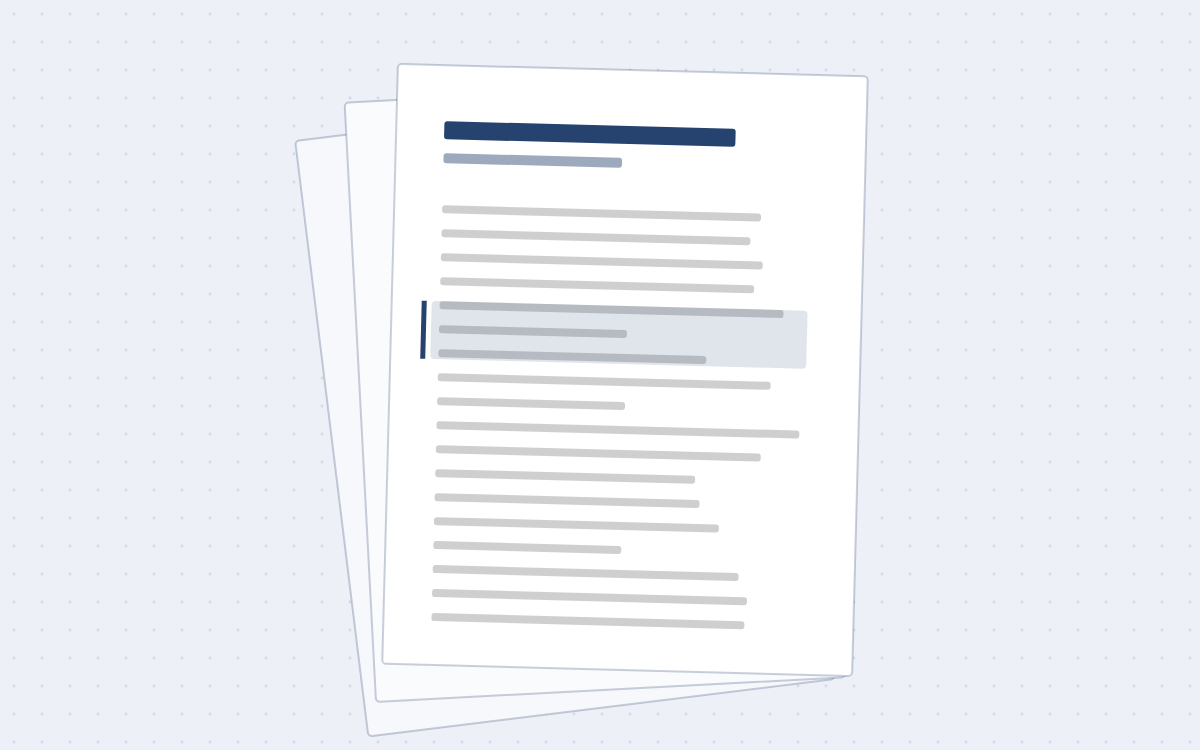
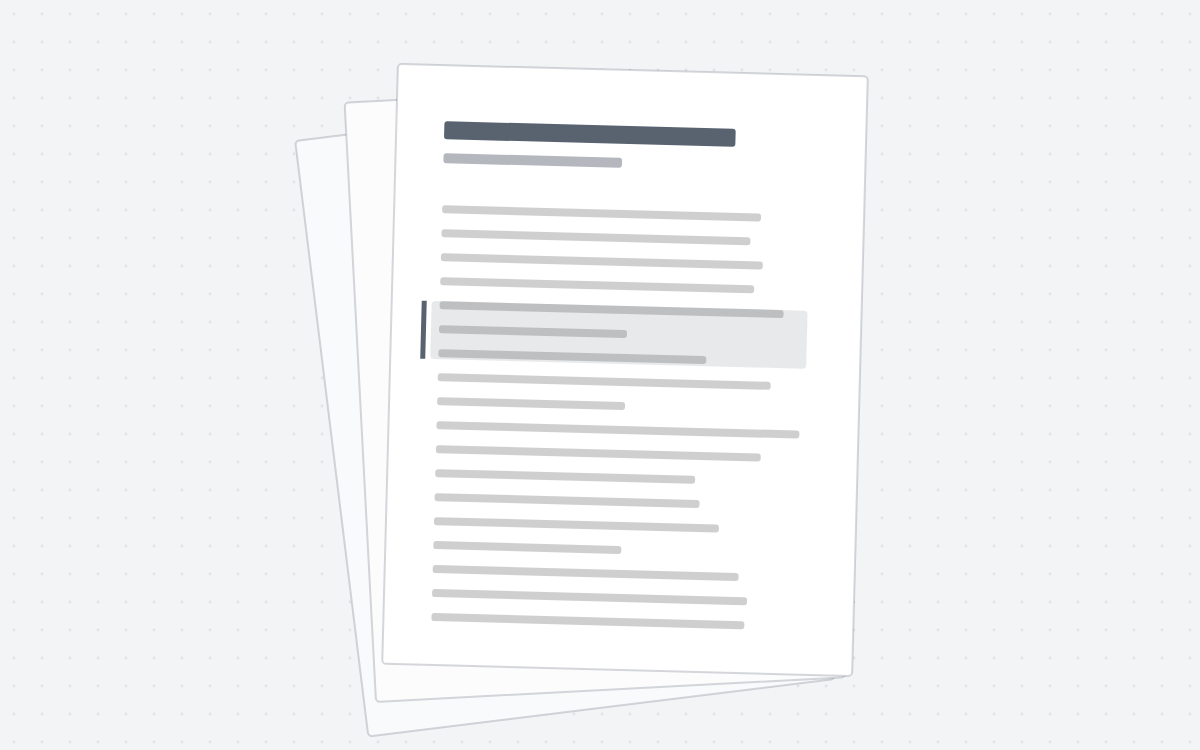
change colors

Changed region(s): [[0.37, 0.1533, 0.6167, 0.2147], [0.3392, 0.3987, 0.37, 0.46]]

diff --git a/apps/web/components/layout/site-footer.tsx b/apps/web/components/layout/site-footer.tsx
@@ -14,19 +14,19 @@ export async function SiteFooter() {
     featured && g.heading === "Conferences & Events" ? { ...g, links: [{ label: featured.shortTitle ?? featured.title, href: `/conferences/${featured.slug}` }, ...g.links] } : g,
   );
   return (
-    <footer className="border-t border-rule bg-paper">
+    <footer className="bg-brand-darkest text-white/80">
       <div className="container-site py-14 md:py-16">
         <div className="grid gap-12 lg:grid-cols-12 lg:gap-10">
           <div className="lg:col-span-3">
-            <Logo className="h-14" />
-            <p className="mt-5 max-w-sm text-[0.9375rem] leading-relaxed text-muted-ink">{siteConfig.description}</p>
-            <SocialLinks className="mt-5 -ml-2.5" />
+            <Logo tone="white" className="h-14" />
+            <p className="mt-5 max-w-sm text-[0.9375rem] leading-relaxed text-white/75">{siteConfig.description}</p>
+            <SocialLinks inverse className="mt-5 -ml-2.5" />
           </div>
 
           <div className="grid grid-cols-2 gap-x-6 gap-y-10 sm:grid-cols-4 lg:col-span-6 lg:grid-cols-2 xl:grid-cols-4">
             {nav.map((group) => (
               <nav key={group.heading} aria-labelledby={`footer-${group.heading}`}>
-                <h2 id={`footer-${group.heading}`} className="text-sm font-semibold text-brand">
+                <h2 id={`footer-${group.heading}`} className="font-headline text-[0.9375rem] font-semibold tracking-[0.06em] text-white uppercase">
                   {group.heading}
                 </h2>
                 <ul className="mt-3">
@@ -34,7 +34,7 @@ export async function SiteFooter() {
                     <li key={l.label}>
                       <Link
                         href={l.href}
-                        className="inline-flex min-h-11 items-center rounded-sm text-[0.9375rem] md:min-h-9 text-muted-ink hover:text-ink hover:underline hover:decoration-ink/30 hover:underline-offset-4"
+                        className="inline-flex min-h-11 items-center rounded-sm text-[0.9375rem] md:min-h-9 text-white/75 hover:text-white hover:underline hover:decoration-white/40 hover:underline-offset-4"
                       >
                         {l.label}
                       </Link>
@@ -46,10 +46,10 @@ export async function SiteFooter() {
           </div>
 
           <div className="lg:col-span-3">
-            <h2 className="text-sm font-semibold text-brand">Contact</h2>
-            <address className="mt-4 space-y-3 text-[0.9375rem] text-ink/85 not-italic">
+            <h2 className="font-headline text-[0.9375rem] font-semibold tracking-[0.06em] text-white uppercase">Contact</h2>
+            <address className="mt-4 space-y-3 text-[0.9375rem] text-white/80 not-italic">
               <p className="flex gap-3">
-                <MapPin className="mt-1 size-4 shrink-0 text-faint-ink" aria-hidden />
+                <MapPin className="mt-1 size-4 shrink-0 text-highlight" aria-hidden />
                 <span>
                   {contact.address.map((line) => (
                     <span key={line} className="block">
@@ -59,14 +59,14 @@ export async function SiteFooter() {
                 </span>
               </p>
               <p className="flex items-center gap-3">
-                <Phone className="size-4 shrink-0 text-faint-ink" aria-hidden />
-                <a href={contact.phone.href} className="tap-target rounded-sm hover:text-brand hover:underline hover:underline-offset-4">
+                <Phone className="size-4 shrink-0 text-highlight" aria-hidden />
+                <a href={contact.phone.href} className="tap-target rounded-sm hover:text-white hover:underline hover:underline-offset-4">
                   {contact.phone.display}
                 </a>
               </p>
               <p className="flex items-center gap-3">
-                <Mail className="size-4 shrink-0 text-faint-ink" aria-hidden />
-                <a href={`mailto:${contact.email}`} className="tap-target rounded-sm hover:text-brand hover:underline hover:underline-offset-4">
+                <Mail className="size-4 shrink-0 text-highlight" aria-hidden />
+                <a href={`mailto:${contact.email}`} className="tap-target rounded-sm hover:text-white hover:underline hover:underline-offset-4">
                   {contact.email}
                 </a>
               </p>
@@ -74,14 +74,14 @@ export async function SiteFooter() {
           </div>
         </div>
 
-        <div className="mt-14 flex flex-col gap-4 border-t border-rule pt-6 text-sm text-faint-ink md:flex-row md:items-center md:justify-between">
+        <div className="mt-14 flex flex-col gap-4 border-t border-white/15 pt-6 text-sm text-white/60 md:flex-row md:items-center md:justify-between">
           <p>
             © <CopyrightYear /> {siteConfig.shortName}. All rights reserved.
           </p>
           <ul className="flex flex-wrap gap-x-6 gap-y-2">
             {legalNav.map((l) => (
               <li key={l.href}>
-                <Link href={l.href} className="tap-target rounded-sm hover:text-ink">
+                <Link href={l.href} className="tap-target rounded-sm hover:text-white">
                   {l.label}
                 </Link>
               </li>

diff --git a/apps/web/app/globals.css b/apps/web/app/globals.css
@@ -7,31 +7,34 @@
  * Change the site's colours HERE: every page, button, link and band reads
  * these variables (and Tailwind classes such as bg-brand map onto them).
  *
- * Palette: Midnight Navy + Amber.
+ * Palette: Slate + Orange.
  *   --brand        main colour: buttons, links, focus, headings on the home page
  *   --brand-strong hover / pressed
+ *   --brand-mid / --brand-light  lighter slate steps (home-page cards and tiles)
  *   --brand-deep   dark bands (newsletter, "Built for your research")
- *   --brand-darkest deepest shade, hero gradient and footer
+ *   --brand-darkest deepest shade: hero gradient and footer
  *   --brand-wash / --brand-tint  light backgrounds and borders
- *   --highlight    accent for call-to-action buttons; --on-highlight is its text
- *   --sand         warm light band behind the numbers on the home page
+ *   --highlight    orange accent for call-to-action buttons; --on-highlight is its text
+ *   --sand         light band behind the numbers on the home page
  * Shadcn/ui semantic tokens are mapped onto the same palette below.
  */
 :root {
-  /* Brand: Midnight Navy (#1b3a6b) with deeper and lighter steps */
-  --brand: #1b3a6b;
-  --brand-strong: #152f57; /* hover / pressed */
-  --brand-deep: #11264a; /* dark bands, pressed states */
-  --brand-darkest: #0a1730; /* hero gradient, footer */
-  --brand-wash: #eef2f8; /* tinted backgrounds, selected states */
-  --brand-tint: #d3dcea; /* borders on tinted surfaces */
-  --highlight: #f2b134; /* amber accent: call-to-action buttons, small marks on dark bands */
-  --on-highlight: #3b2704; /* text on the amber accent (9:1) */
-  --sand: #f4efe6; /* warm band behind the home-page numbers */
-  --chart-1: #2c538f; /* chart series 1 */
+  /* Brand: Slate (#33404f) with deeper and lighter steps */
+  --brand: #33404f;
+  --brand-strong: #2b3643; /* hover / pressed */
+  --brand-mid: #4a5a6c; /* second card shade */
+  --brand-light: #5f7185; /* third card shade */
+  --brand-deep: #1f2933; /* dark bands, pressed states */
+  --brand-darkest: #12181e; /* hero gradient, footer */
+  --brand-wash: #eff0f1; /* tinted backgrounds, selected states */
+  --brand-tint: #d2d5d8; /* borders on tinted surfaces */
+  --highlight: #ff8a3d; /* orange accent: call-to-action buttons, small marks on dark bands */
+  --on-highlight: #3b1700; /* text on the orange accent (7.5:1) */
+  --sand: #f1efec; /* light band behind the home-page numbers */
+  --chart-1: #4a5a6c; /* chart series 1 */
   --chart-2: #d08a3a; /* chart series 2; below 3:1 on white, so charts carry labels or a table */
 
-  /* Neutrals: warm greys that sit comfortably beside maroon */
+  /* Neutrals: greys for text, borders and secondary sections */
   --ink: #202124; /* dark charcoal text */
   --ink-soft: #3c4043;
   --paper: #f7f6f5; /* secondary sections */
@@ -80,6 +83,8 @@
   --color-brand-wash: var(--brand-wash);
   --color-brand-tint: var(--brand-tint);
   --color-brand-darkest: var(--brand-darkest);
+  --color-brand-mid: var(--brand-mid);
+  --color-brand-light: var(--brand-light);
   --color-highlight: var(--highlight);
   --color-on-highlight: var(--on-highlight);
   --color-sand: var(--sand);

diff --git a/apps/web/lib/site.ts b/apps/web/lib/site.ts
@@ -10,9 +10,9 @@ export const siteConfig = {
   description:
     "RiTECHS connects researchers, scholars and innovators through publications, international conferences, mentorship and research training.",
   logo: {
-    /** Burgundy recolour of the supplied white logo, for light backgrounds. */
-    onLight: "/brand/ritechs-logo.png",
-    /** Original supplied logo (white on transparent), for burgundy backgrounds. */
+    /** Slate (brand colour) recolour of the supplied white logo, for light backgrounds. */
+    onLight: "/brand/ritechs-logo-slate.png",
+    /** Original supplied logo (white on transparent), for dark backgrounds. */
     onDark: "/brand/ritechs-logo-white.png",
     width: 302,
     height: 130,

diff --git a/apps/web/components/layout/newsletter-form.tsx b/apps/web/components/layout/newsletter-form.tsx
@@ -79,7 +79,7 @@ export function NewsletterForm() {
           aria-describedby={`${id}-hint ${id}-error`}
           className="h-12 w-full min-w-0 rounded-md sm:flex-1 border border-white/25 bg-white/[0.08] px-4 text-base text-white outline-none placeholder:text-white/50 focus-visible:border-white focus-visible:ring-2 focus-visible:ring-white/25 aria-invalid:border-[#ffb4c0]"
         />
-        <Button type="submit" variant="inverse" size="lg" disabled={pending} className="h-12">
+        <Button type="submit" variant="highlight" size="lg" disabled={pending} className="h-12">
           {pending && <Spinner />}
           {pending ? "Subscribing…" : "Subscribe"}
         </Button>

diff --git a/apps/web/components/home/trending.tsx b/apps/web/components/home/trending.tsx
@@ -38,7 +38,7 @@ export async function Trending() {
             <Reveal as="li" key={c.href} index={i}>
               <Link
                 href={c.href}
-                className="group flex h-full flex-col bg-brand text-white shadow-[0_10px_24px_-12px_rgb(0_0_0/0.45)] transition-transform duration-300 hover:-translate-y-1"
+                className={`group flex h-full flex-col text-white shadow-[0_10px_24px_-12px_rgb(0_0_0/0.45)] transition-transform duration-300 hover:-translate-y-1 ${["bg-brand", "bg-brand-mid", "bg-brand-light"][i % 3]}`}
               >
                 <span className="relative block aspect-[4/3] overflow-hidden">
                   <Image

diff --git a/apps/web/components/home/events-section.tsx b/apps/web/components/home/events-section.tsx
@@ -112,7 +112,7 @@ export async function EventsSection() {
 
 /** Seminars, boot camps and other programmes as tall tiles, like the video row on usf.edu. */
 export function ProgrammeTiles() {
-  const shades = ["bg-brand", "bg-ink", "bg-brand-strong", "bg-brand-deep"];
+  const shades = ["bg-brand", "bg-brand-deep", "bg-brand-mid", "bg-brand-darkest"];
   return (
     <section aria-labelledby="programmes-heading" className="relative overflow-hidden bg-paper py-16 md:py-20 lg:py-24">
       <div aria-hidden className="absolute -top-24 -left-40 size-[34rem] rounded-full border-[4rem] border-brand/[0.05]" />

diff --git a/apps/web/components/brand/logo.tsx b/apps/web/components/brand/logo.tsx
@@ -5,8 +5,8 @@ import { cn } from "@/lib/utils";
 
 /**
  * The supplied RiTECHS logo. The original white artwork is used on
- * burgundy surfaces; a burgundy recolour of the same artwork (identical
- * shapes and proportions) is used on light surfaces.
+ * dark surfaces; a recolour of the same artwork in the brand colour
+ * (identical shapes and proportions) is used on light surfaces.
  */
 export function Logo({
   tone = "brand",

diff --git a/apps/web/app/layout.tsx b/apps/web/app/layout.tsx
@@ -84,7 +84,7 @@ export const metadata: Metadata = {
 };
 
 export const viewport: Viewport = {
-  themeColor: "#0e2240",
+  themeColor: "#1f2933",
 };
 
 export default function RootLayout({ children }: LayoutProps<"/">) {

diff --git a/DESIGN.md b/DESIGN.md
@@ -4,15 +4,15 @@ name: RiTECHS
 description: The design system of RiTECHS (Research, Innovation, Technology & Solution), an academic research, publication and mentoring organisation. A burgundy-and-white institutional identity built around the supplied RiTECHS logo — deep burgundy for action and emphasis, charcoal text on white, a warm off-white for secondary sections — set in an editorial serif (Newsreader) for headings, titles and abstracts and IBM Plex Sans for interface text. Restrained borders, soft offset shadows, generous whitespace; one burgundy band per page.
 
 colors:
-  brand: "#1b3a6b"
-  brand-strong: "#152f57"
-  brand-deep: "#11264a"
-  brand-darkest: "#0a1730"
-  brand-wash: "#eef2f8"
-  brand-tint: "#d3dcea"
-  highlight: "#f2b134"
-  on-highlight: "#3b2704"
-  sand: "#f4efe6"
+  brand: "#33404f"
+  brand-strong: "#2b3643"
+  brand-deep: "#1f2933"
+  brand-darkest: "#12181e"
+  brand-wash: "#eff0f2"
+  brand-tint: "#d2d5d9"
+  highlight: "#ff8a3d"
+  on-highlight: "#3b1700"
+  sand: "#f1efec"
   ink: "#202124"
   ink-soft: "#3c4043"
   muted-ink: "#55595e"
@@ -171,12 +171,12 @@ landing page. Two surface modes apply:
   precise details, not decoration.
 
 The supplied logo (`public/brand/ritechs-logo-white.png`, white on transparent) is the identity.
-On light surfaces use the burgundy recolour of the same artwork (`ritechs-logo.png`). Never stretch,
+On light surfaces use the brand-colour (slate) recolour of the same artwork (`ritechs-logo-slate.png`). Never stretch,
 re-draw, add effects to, or substitute the logo.
 
 ## Colors
 
-> **Palette changed to Midnight Navy + Amber (test project, November 2026).** All colours are
+> **Palette changed to Slate + Orange (test project, November 2026).** All colours are
 > CSS variables at the top of `apps/web/app/globals.css`; change them there and the whole site
 > follows. The burgundy notes below describe the previous palette; read "burgundy" as "brand".
 > The home page now uses a university-portal layout (condensed Oswald headings, angled bands,
